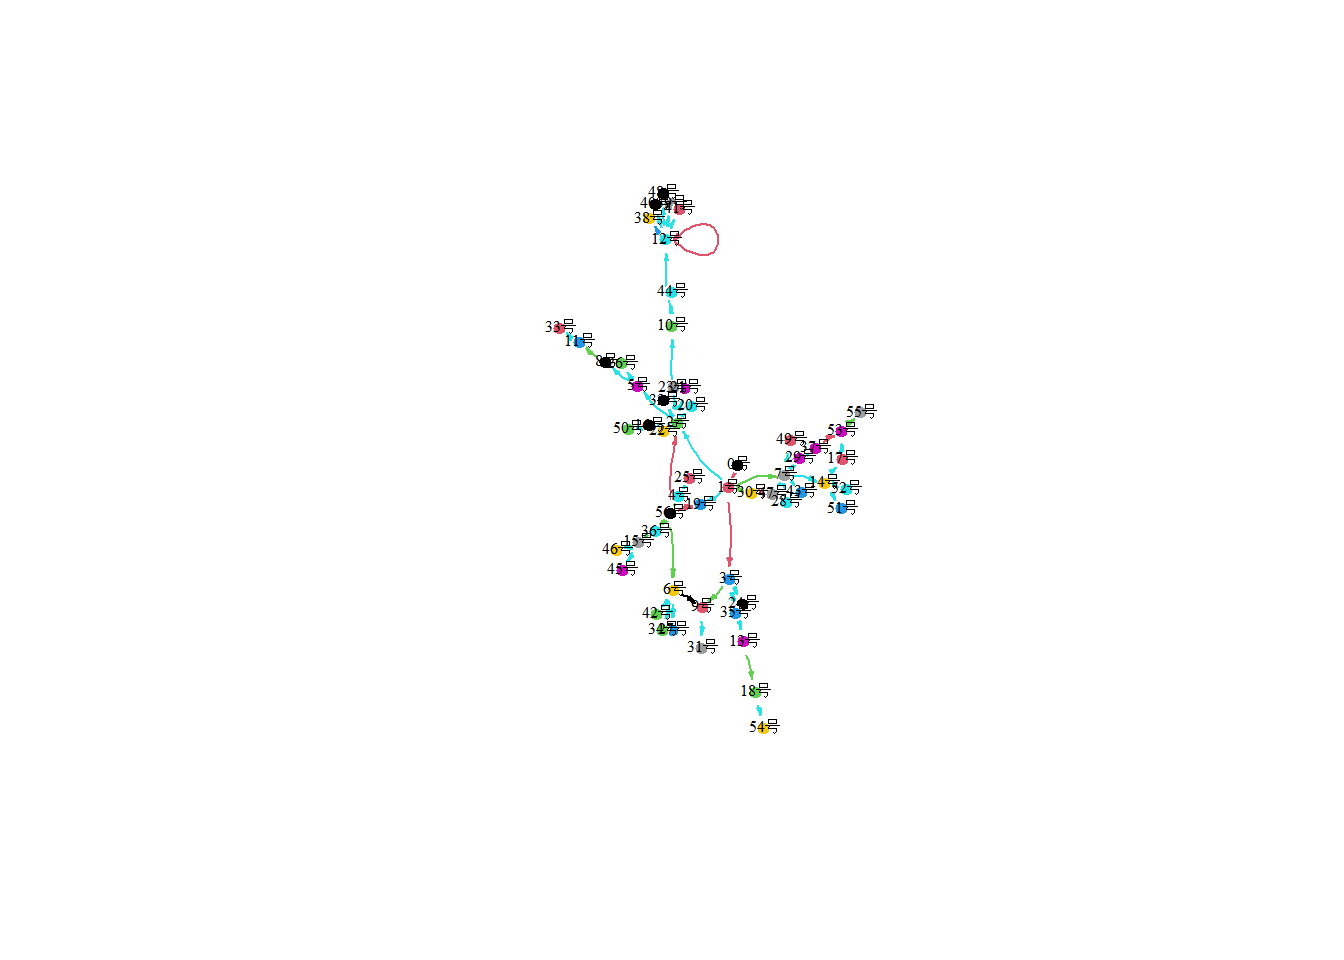
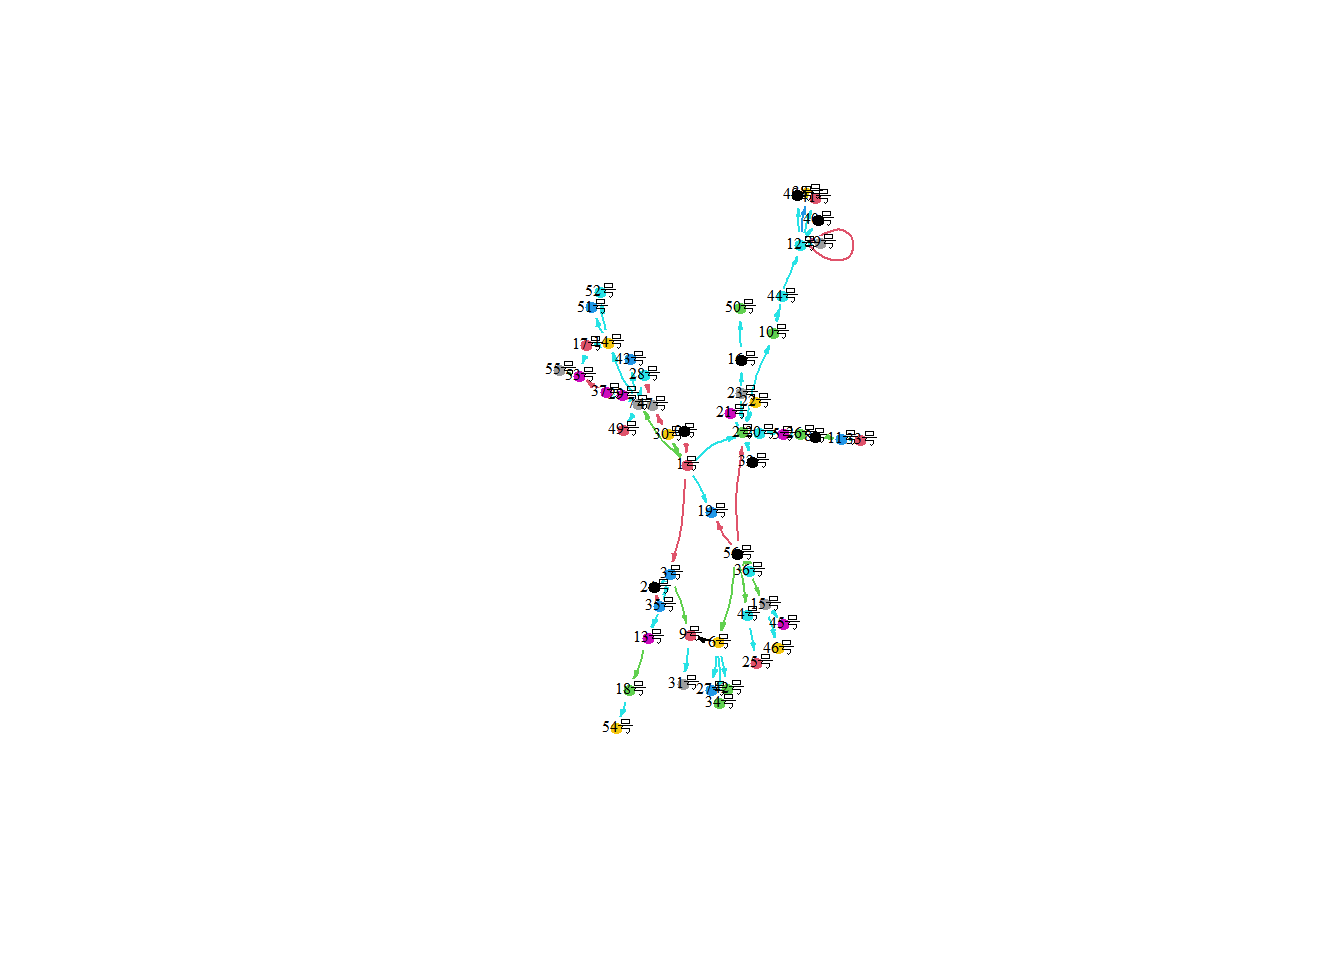
达到

diff --git a/content/post/2022-03-25-chainr/index.html b/content/post/2022-03-25-chainr/index.html
@@ -16,7 +16,7 @@ math: true
 showToc: true
 TocOpen: false
 toc-title: "目录"
-draft: true
+draft: false
 hidemeta: false
 comments: false
 description: "跨专业的尝试"
@@ -66,7 +66,7 @@ cover:
 <div id="igraph" class="section level3">
 <h3>igraph</h3>
 <p>首先使用<code>graph_from_data_frame(d =line, vertices = node,  directed = T)</code>将节点和边转换成<code>igraph</code>，就可以直接<code>plot</code>第一张图, 参数自己可以调节。</p>
-<p><img src="{{< blogdown/postref >}}index_files/figure-html/unnamed-chunk-4-1.png" width="672" style="display: block; margin: auto;" /></p>
+<p><img src="{{< blogdown/postref >}}index_files/figure-html/unnamed-chunk-4-1.png" width="1920" style="display: block; margin: auto;" /></p>
 </div>
 <div id="ggraph" class="section level3">
 <h3>ggraph</h3>
